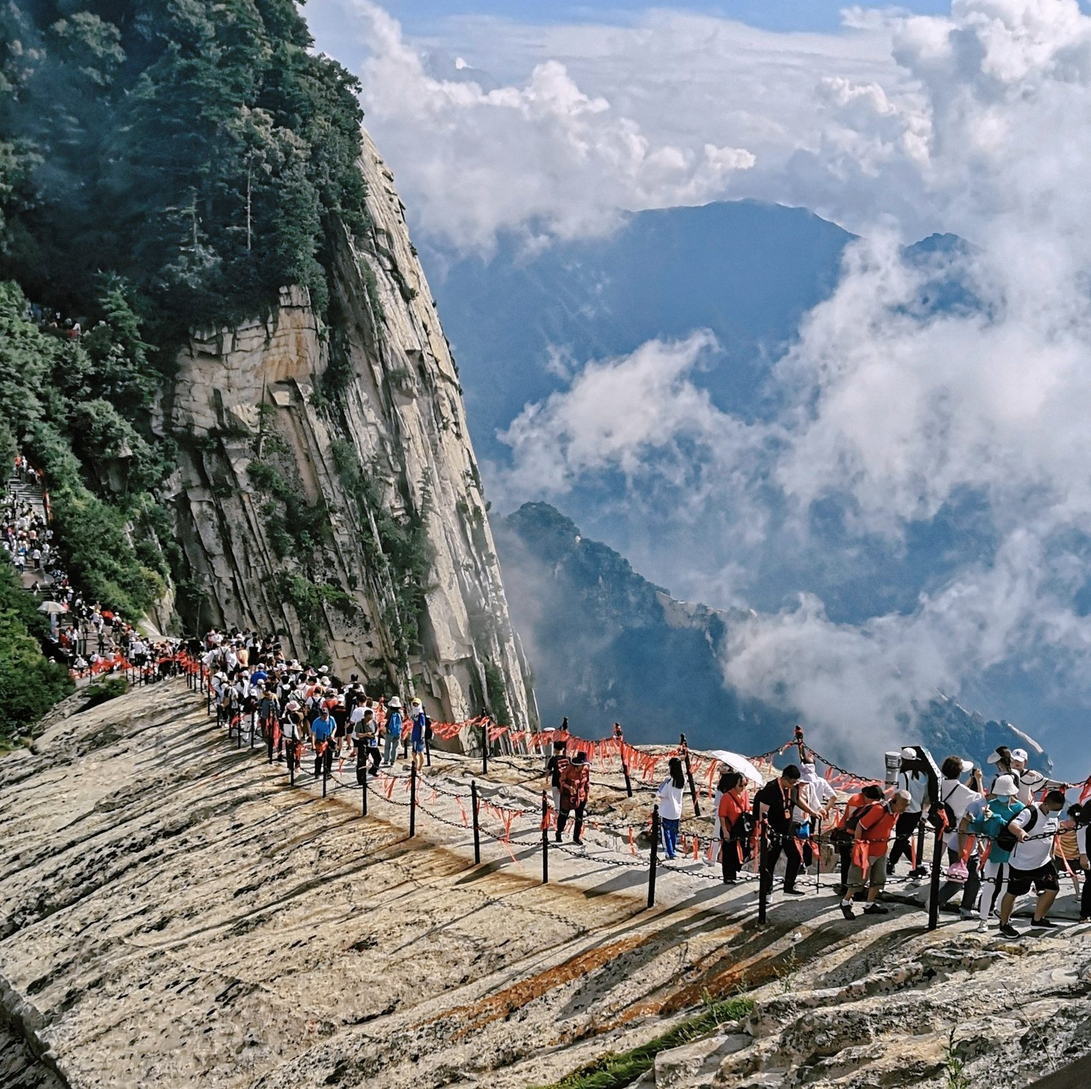
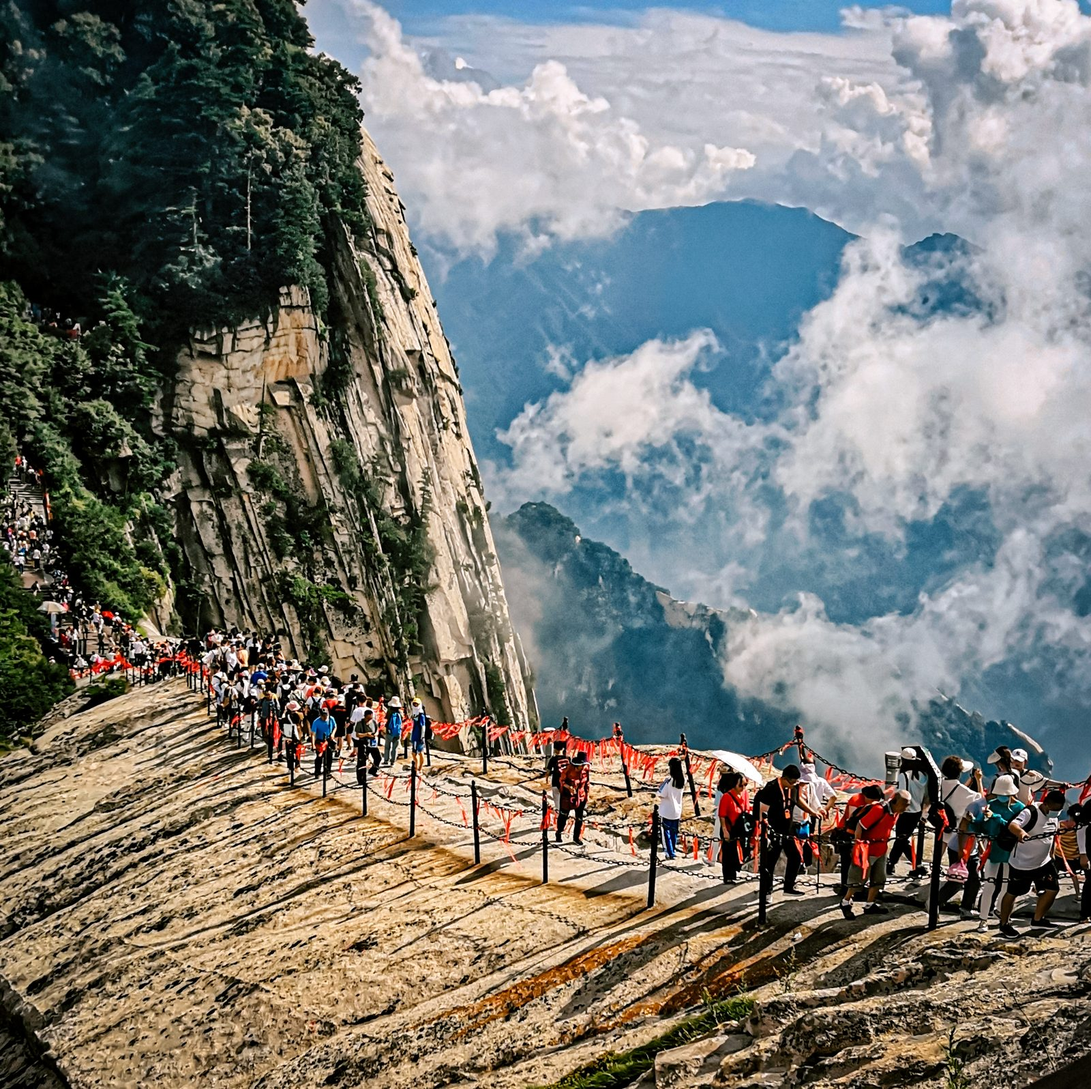
site update

diff --git a/js/data.js b/js/data.js
@@ -594,7 +594,6 @@ const SITE_DATA = {
       city: "黑龙江 哈尔滨",
       desc: "",
       seal: "哈",
-      
       photos: [
         { src: "assets/images/travel-22.jpg", title: "中央大街" }
       ]
@@ -607,8 +606,20 @@ const SITE_DATA = {
         { src: "assets/images/travel-23.jpg", title: "曲水亭街" },
         { src: "assets/images/travel-24.jpg", title: "胶济铁路博物馆" }
       ]
+    },
+       {
+      city: "名胜古迹 三山五岳",
+      desc: "2021年至西岳华山，2025年至东岳泰山，2026年至北岳恒山。",
+      seal: "五岳",
+      star: true,  
+      photos: [
+        { src: "assets/images/wuyue/东岳 泰山.jpg", title: "东岳 泰山" },
+        { src: "assets/images/wuyue/西岳 华山.jpg", title: "西岳 华山" }
+
+      ]
     }
   ],
+  
 
   /* ─────────── 贰 · 行迹 之 影像集（社交视频平台入口） ───────────
      点击卡片直接跳转到对应平台主页。
